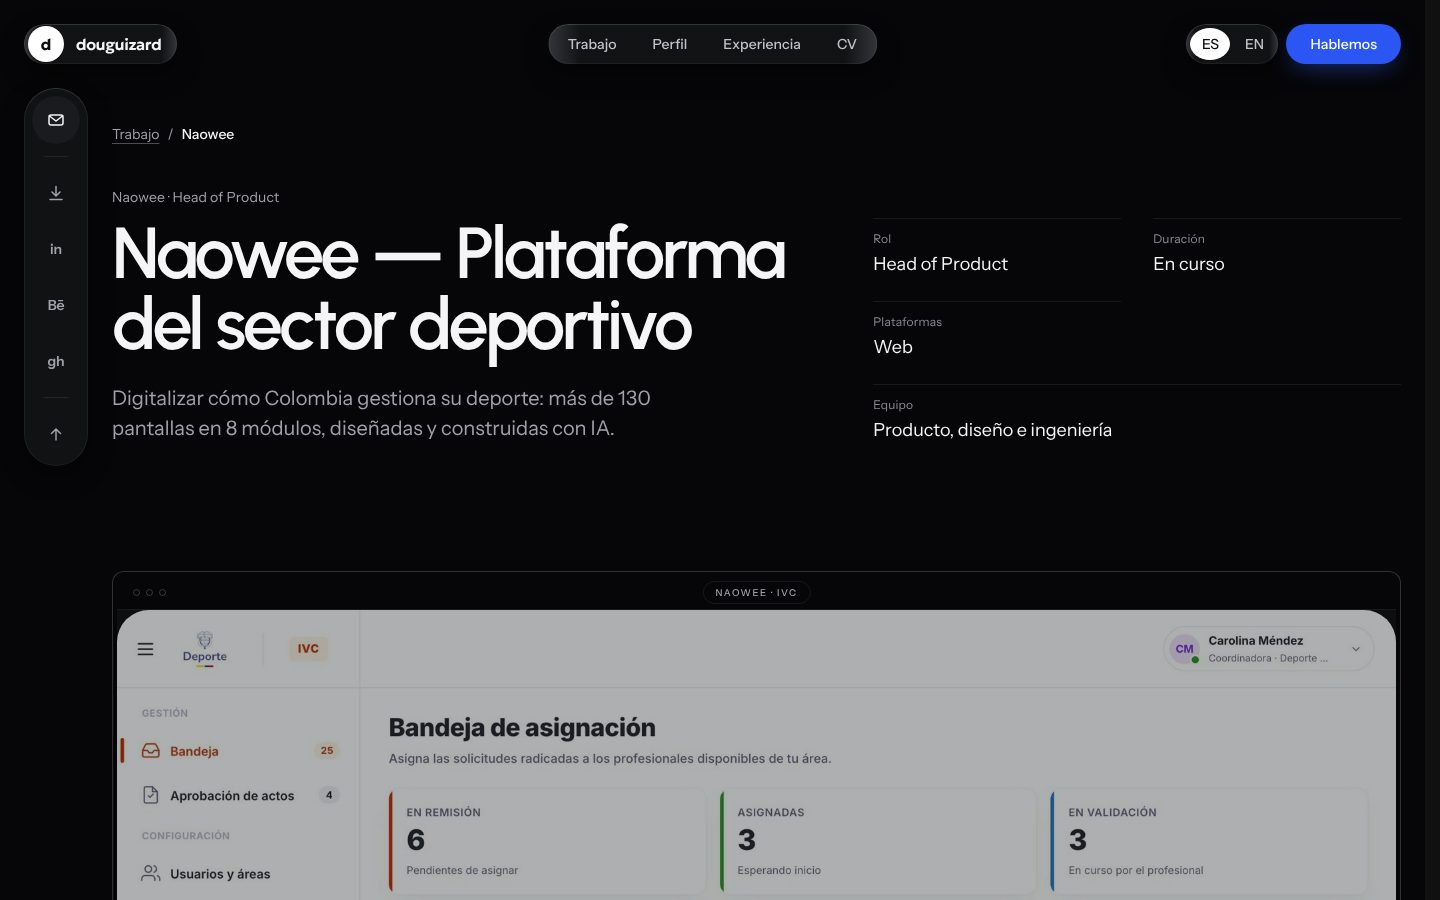
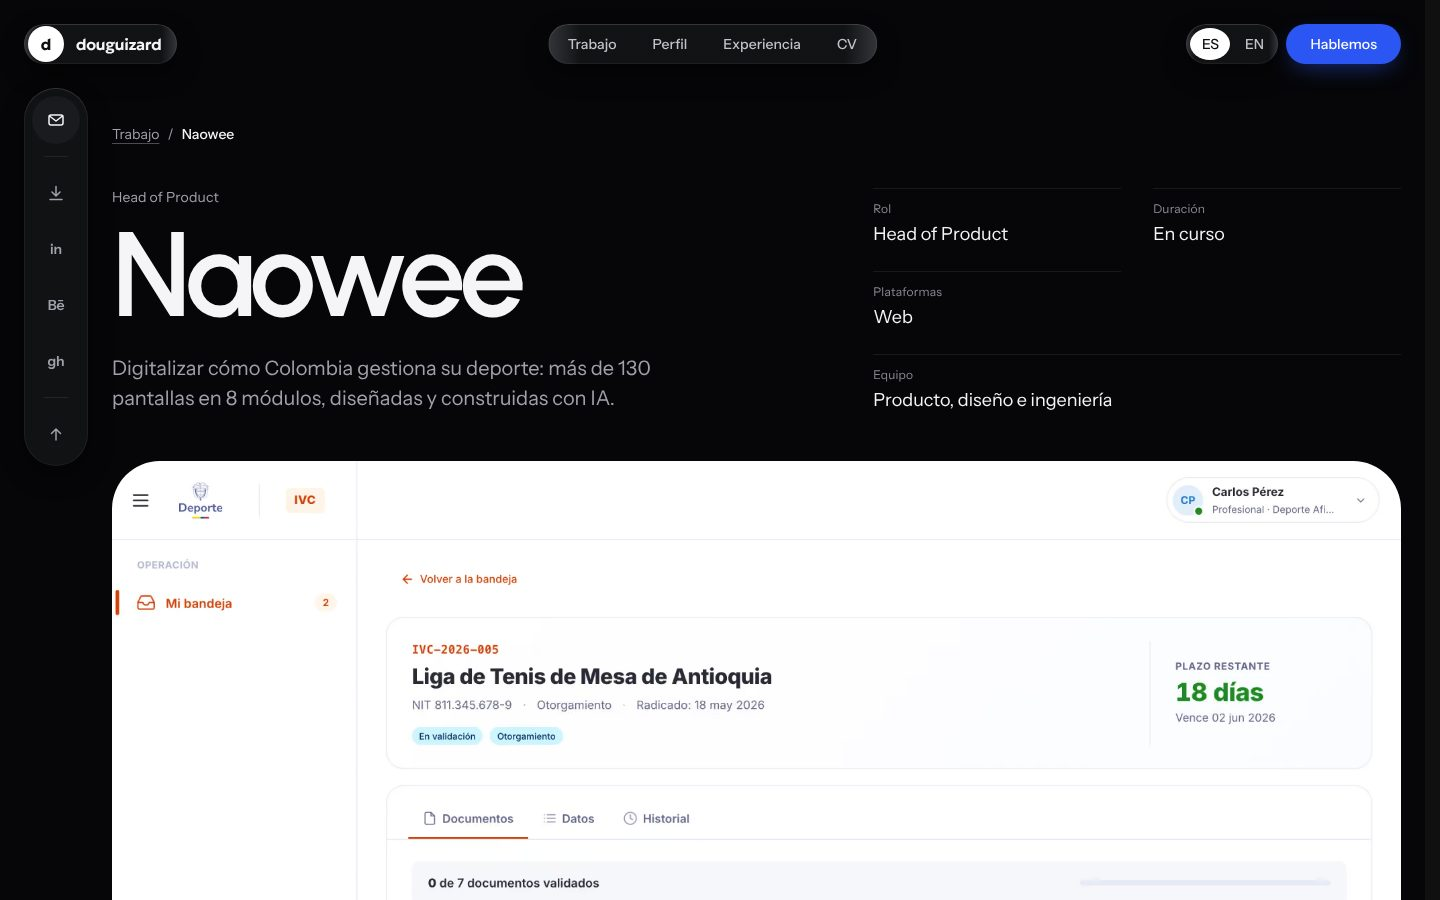
docs(f7): verificación de los arreglos tras la crítica, perf y capturas rehechas
Claude-Session: https://claude.ai/code/session_0115FVoBrKLJcnsphyUDc5kh

diff --git a/docs/rediseno-2026/F7-INFORME.md b/docs/rediseno-2026/F7-INFORME.md
@@ -212,3 +212,15 @@ Reformulados solo con lo que ya dice cada caso; ninguna cifra nueva. Viven en `s
 
 Sin borrador, a propósito: Producto en todos menos Naowee (no hay frase en el caso que lo resuma sin inventar) y
 Decisiones/Proceso donde el caso no tiene ese bloque.
+
+### Verificación de los arreglos
+
+- lint · tsc · build: en verde.
+- vitest: **258/258** (257 + 1 de `heads`).
+- Playwright completo: **513/513** en una corrida (16,7 min; 502 + 11 nuevas de `caso.spec`: P1-1 ×3, P1-2 ×3,
+  P1-3 ×2, P1-4 ×3).
+- LCP de `/` (`perf-F7-arreglos.json`, mediana de 3, servidor solo): móvil **1.012 ms** (F7: 1.068), escritorio
+  **412 ms** (F7: 432); CLS igual (0,0655 / 0,0005). Sin regresión: el CSS del caso no viaja con `/`.
+- Capturas rehechas con `npx tsx scripts/shots-f7.ts` (`next build` + `next start`): `completa-`, `entera-` y `hoja-`
+  de Naowee, Andes, olbo y DC Medical (ES, 1440 y 390), las de Naowee en EN, y los 404. olbo y DC Medical se
+  rehicieron también porque P1-2 y P1-4 cambian su portada y sus capítulos.
